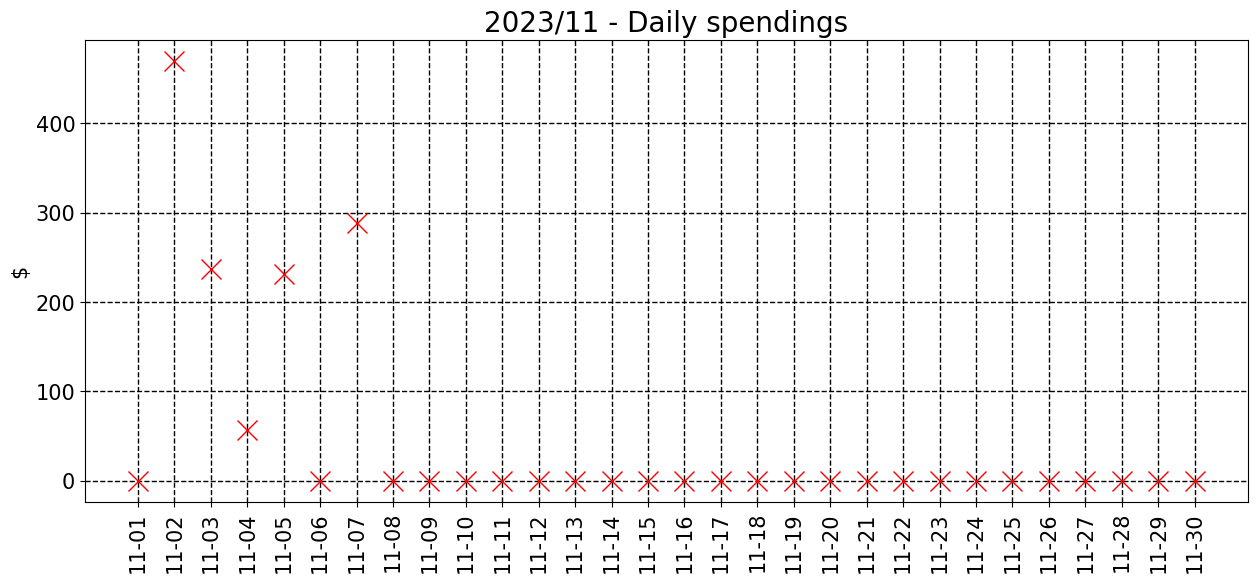
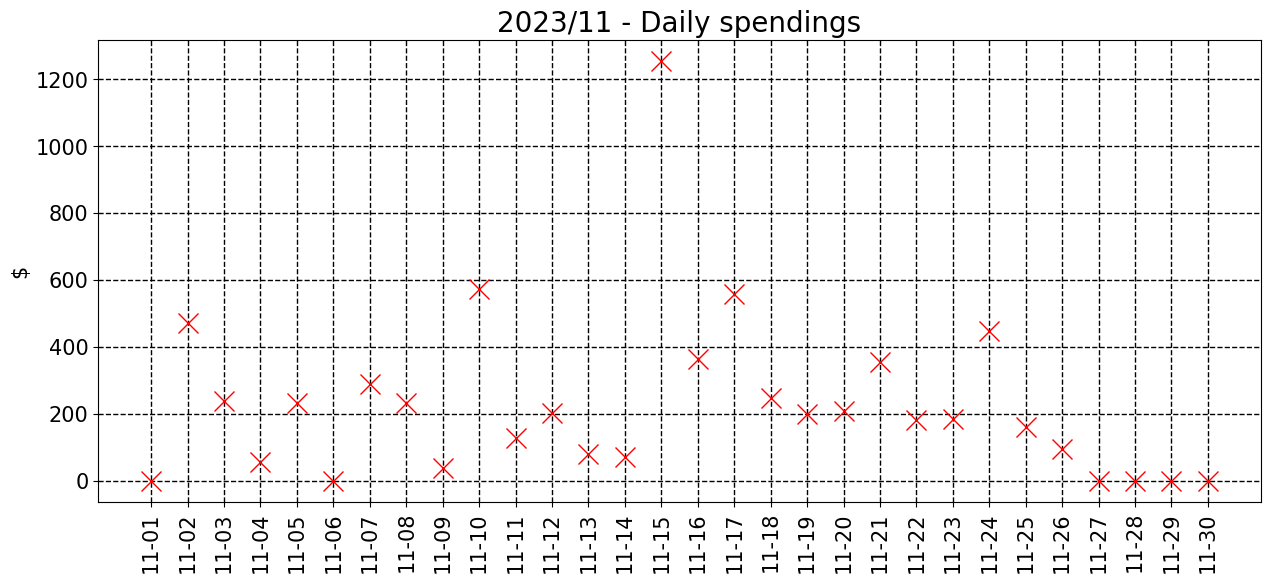
commit from python

Changed region(s): [[0.031, 0.0, 0.9928, 0.9897]]

diff --git a/README.md b/README.md
@@ -7,7 +7,7 @@ __________________________________
 <sub><sup>
 | Spent | Avg daily | End of month projection | Spent since 2023/7 |
 |---|---|---|---|
-| $1284.0  |  $160.5  | $4815.0  |  $21587.0  |
+| $6861.0  |  $263.9  | $7917.0  |  $27165.0  |
 </sub></sup>
 __________________________________
 ![graph_11_sum](graph_11_sum.png)
